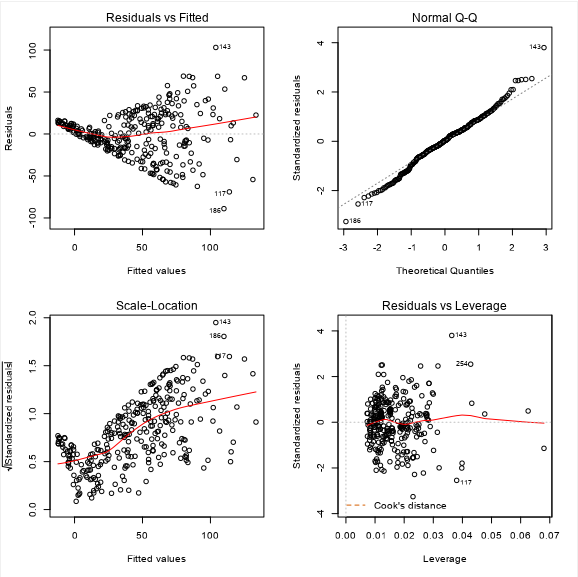
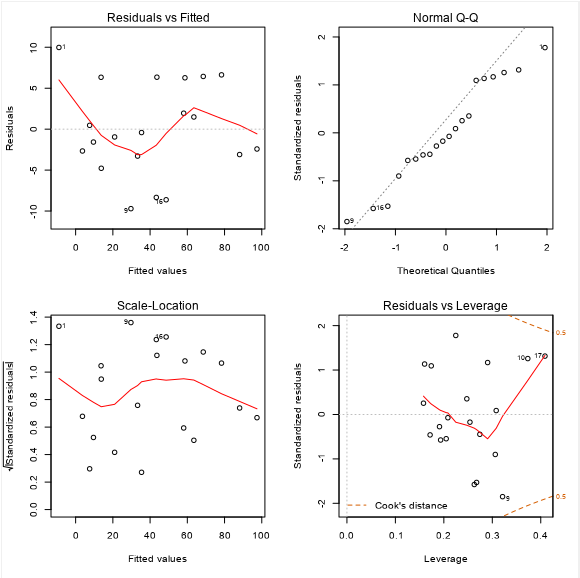
🔥 File: Conduct analysis with different dataset

diff --git a/linear-regression-report(Alteryx).html b/linear-regression-report(Alteryx).html
@@ -64,8 +64,7 @@
                   <div style="width: 100%; font-family: Arial; font-size: 14pt">
                     <div style="text-align: center">
                       <span style="font-family: Verdana; font-weight: bold"
-                        >Report for Linear Model
-                        Linear_Regression_Analysis_for_Number_of_Tickets</span
+                        >Report for Linear Model Linear_Regression_2</span
                       >
                     </div>
                   </div>
@@ -256,7 +255,7 @@
                                   font-size: 10pt;
                                 "
                               >
-                                -88.942
+                                -9.711
                               </td>
                               <td
                                 style="
@@ -266,7 +265,7 @@
                                   font-size: 10pt;
                                 "
                               >
-                                -15.643
+                                -3.149
                               </td>
                               <td
                                 style="
@@ -276,7 +275,7 @@
                                   font-size: 10pt;
                                 "
                               >
-                                0.809
+                                -0.685
                               </td>
                               <td
                                 style="
@@ -286,7 +285,7 @@
                                   font-size: 10pt;
                                 "
                               >
-                                16.065
+                                6.287
                               </td>
                               <td
                                 style="
@@ -296,7 +295,7 @@
                                   font-size: 10pt;
                                 "
                               >
-                                103.038
+                                9.974
                               </td>
                             </tr>
                           </tbody>
@@ -447,7 +446,7 @@
                                           font-size: 10pt;
                                         "
                                       >
-                                        1.586e+00
+                                        -1.845e+01
                                       </td>
                                       <td
                                         style="
@@ -457,7 +456,7 @@
                                           font-size: 10pt;
                                         "
                                       >
-                                        4.225e+00
+                                        4.7645757
                                       </td>
                                       <td
                                         style="
@@ -467,7 +466,7 @@
                                           font-size: 10pt;
                                         "
                                       >
-                                        0.3753
+                                        -3.872
                                       </td>
                                       <td
                                         style="
@@ -477,7 +476,7 @@
                                           font-size: 10pt;
                                         "
                                       >
-                                        0.70767
+                                        0.0015
                                       </td>
                                       <td
                                         style="
@@ -486,7 +485,9 @@
                                           font-family: Verdana;
                                           font-size: 10pt;
                                         "
-                                      ></td>
+                                      >
+                                        **
+                                      </td>
                                     </tr>
                                     <tr style="background-color: #f0f0f0">
                                       <td
@@ -507,7 +508,7 @@
                                           font-size: 10pt;
                                         "
                                       >
-                                        9.849e-02
+                                        1.116e-01
                                       </td>
                                       <td
                                         style="
@@ -517,7 +518,7 @@
                                           font-size: 10pt;
                                         "
                                       >
-                                        1.317e-02
+                                        0.0162071
                                       </td>
                                       <td
                                         style="
@@ -527,7 +528,7 @@
                                           font-size: 10pt;
                                         "
                                       >
-                                        7.4759
+                                        6.886
                                       </td>
                                       <td
                                         style="
@@ -537,7 +538,7 @@
                                           font-size: 10pt;
                                         "
                                       >
-                                        8.79e-13
+                                        1e-05
                                       </td>
                                       <td
                                         style="
@@ -569,7 +570,7 @@
                                           font-size: 10pt;
                                         "
                                       >
-                                        9.989e-05
+                                        4.858e-04
                                       </td>
                                       <td
                                         style="
@@ -579,7 +580,7 @@
                                           font-size: 10pt;
                                         "
                                       >
-                                        4.489e-05
+                                        0.0001107
                                       </td>
                                       <td
                                         style="
@@ -589,7 +590,7 @@
                                           font-size: 10pt;
                                         "
                                       >
-                                        2.2252
+                                        4.387
                                       </td>
                                       <td
                                         style="
@@ -599,7 +600,7 @@
                                           font-size: 10pt;
                                         "
                                       >
-                                        0.02683
+                                        0.00053
                                       </td>
                                       <td
                                         style="
@@ -609,7 +610,7 @@
                                           font-size: 10pt;
                                         "
                                       >
-                                        *
+                                        ***
                                       </td>
                                     </tr>
                                     <tr style="background-color: #f0f0f0">
@@ -631,7 +632,7 @@
                                           font-size: 10pt;
                                         "
                                       >
-                                        -2.124e+01
+                                        -8.725e+00
                                       </td>
                                       <td
                                         style="
@@ -641,7 +642,7 @@
                                           font-size: 10pt;
                                         "
                                       >
-                                        3.601e+00
+                                        3.7557388
                                       </td>
                                       <td
                                         style="
@@ -651,7 +652,7 @@
                                           font-size: 10pt;
                                         "
                                       >
-                                        -5.8963
+                                        -2.323
                                       </td>
                                       <td
                                         style="
@@ -661,7 +662,7 @@
                                           font-size: 10pt;
                                         "
                                       >
-                                        1.01e-08
+                                        0.03463
                                       </td>
                                       <td
                                         style="
@@ -671,7 +672,7 @@
                                           font-size: 10pt;
                                         "
                                       >
-                                        ***
+                                        *
                                       </td>
                                     </tr>
                                     <tr style="background-color: white">
@@ -693,7 +694,7 @@
                                           font-size: 10pt;
                                         "
                                       >
-                                        -1.421e+01
+                                        1.249e+01
                                       </td>
                                       <td
                                         style="
@@ -703,7 +704,7 @@
                                           font-size: 10pt;
                                         "
                                       >
-                                        4.549e+00
+                                        3.7000971
                                       </td>
                                       <td
                                         style="
@@ -713,7 +714,7 @@
                                           font-size: 10pt;
                                         "
                                       >
-                                        -3.1234
+                                        3.377
                                       </td>
                                       <td
                                         style="
@@ -723,7 +724,7 @@
                                           font-size: 10pt;
                                         "
                                       >
-                                        0.00197
+                                        0.00415
                                       </td>
                                       <td
                                         style="
@@ -786,19 +787,19 @@
                   ></div>
                   <div style="width: 100%; font-family: Arial; font-size: 14pt">
                     <span style="font-family: Verdana; font-size: 12pt"
-                      >Residual standard error: 27.616 on 295 degrees of
+                      >Residual standard error: 6.3709 on 15 degrees of
                       freedom</span
                     >
                     <div>
                       <span style="font-family: Verdana; font-size: 12pt"
-                        >Multiple R-squared: 0.585, Adjusted R-Squared:
-                        0.5794</span
+                        >Multiple R-squared: 0.9651, Adjusted R-Squared:
+                        0.9558</span
                       >
                     </div>
                     <div>
                       <span style="font-family: Verdana; font-size: 12pt"
-                        >F-statistic: 104 on 4 and 295 degrees of freedom (DF),
-                        p-value &lt; 2.2e-16</span
+                        >F-statistic: 103.7 on 4 and 15 degrees of freedom (DF),
+                        p-value 9.691e-11</span
                       >
                     </div>
                   </div>
@@ -965,7 +966,7 @@
                                           font-size: 10pt;
                                         "
                                       >
-                                        42624.98
+                                        1924.76
                                       </td>
                                       <td
                                         style="
@@ -985,7 +986,7 @@
                                           font-size: 10pt;
                                         "
                                       >
-                                        55.89
+                                        47.42
                                       </td>
                                       <td
                                         style="
@@ -995,7 +996,7 @@
                                           font-size: 10pt;
                                         "
                                       >
-                                        8.79e-13
+                                        1e-05
                                       </td>
                                       <td
                                         style="
@@ -1027,7 +1028,7 @@
                                           font-size: 10pt;
                                         "
                                       >
-                                        3776.22
+                                        781.1
                                       </td>
                                       <td
                                         style="
@@ -1047,7 +1048,7 @@
                                           font-size: 10pt;
                                         "
                                       >
-                                        4.95
+                                        19.24
                                       </td>
                                       <td
                                         style="
@@ -1057,7 +1058,7 @@
                                           font-size: 10pt;
                                         "
                                       >
-                                        0.02683
+                                        0.00053
                                       </td>
                                       <td
                                         style="
@@ -1067,7 +1068,7 @@
                                           font-size: 10pt;
                                         "
                                       >
-                                        *
+                                        ***
                                       </td>
                                     </tr>
                                     <tr style="background-color: white">
@@ -1089,7 +1090,7 @@
                                           font-size: 10pt;
                                         "
                                       >
-                                        26700.37
+                                        1526.12
                                       </td>
                                       <td
                                         style="
@@ -1109,7 +1110,7 @@
                                           font-size: 10pt;
                                         "
                                       >
-                                        17.5
+                                        18.8
                                       </td>
                                       <td
                                         style="
@@ -1119,7 +1120,7 @@
                                           font-size: 10pt;
                                         "
                                       >
-                                        6.54e-08
+                                        8e-05
                                       </td>
                                       <td
                                         style="
@@ -1151,7 +1152,7 @@
                                           font-size: 10pt;
                                         "
                                       >
-                                        224987.16
+                                        608.83
                                       </td>
                                       <td
                                         style="
@@ -1161,7 +1162,7 @@
                                           font-size: 10pt;
                                         "
                                       >
-                                        295
+                                        15
                                       </td>
                                       <td
                                         style="
